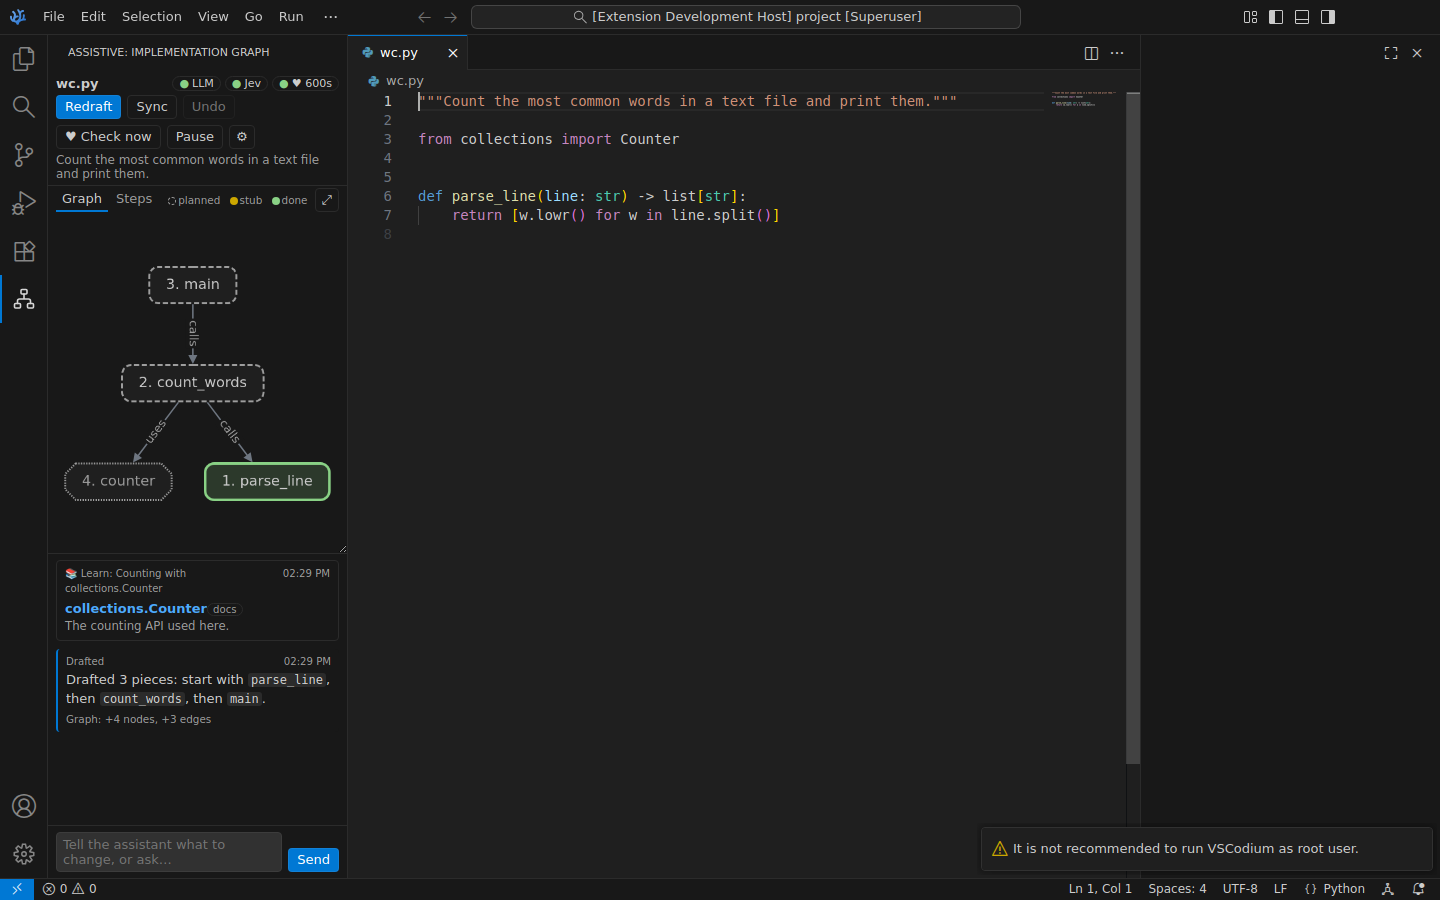
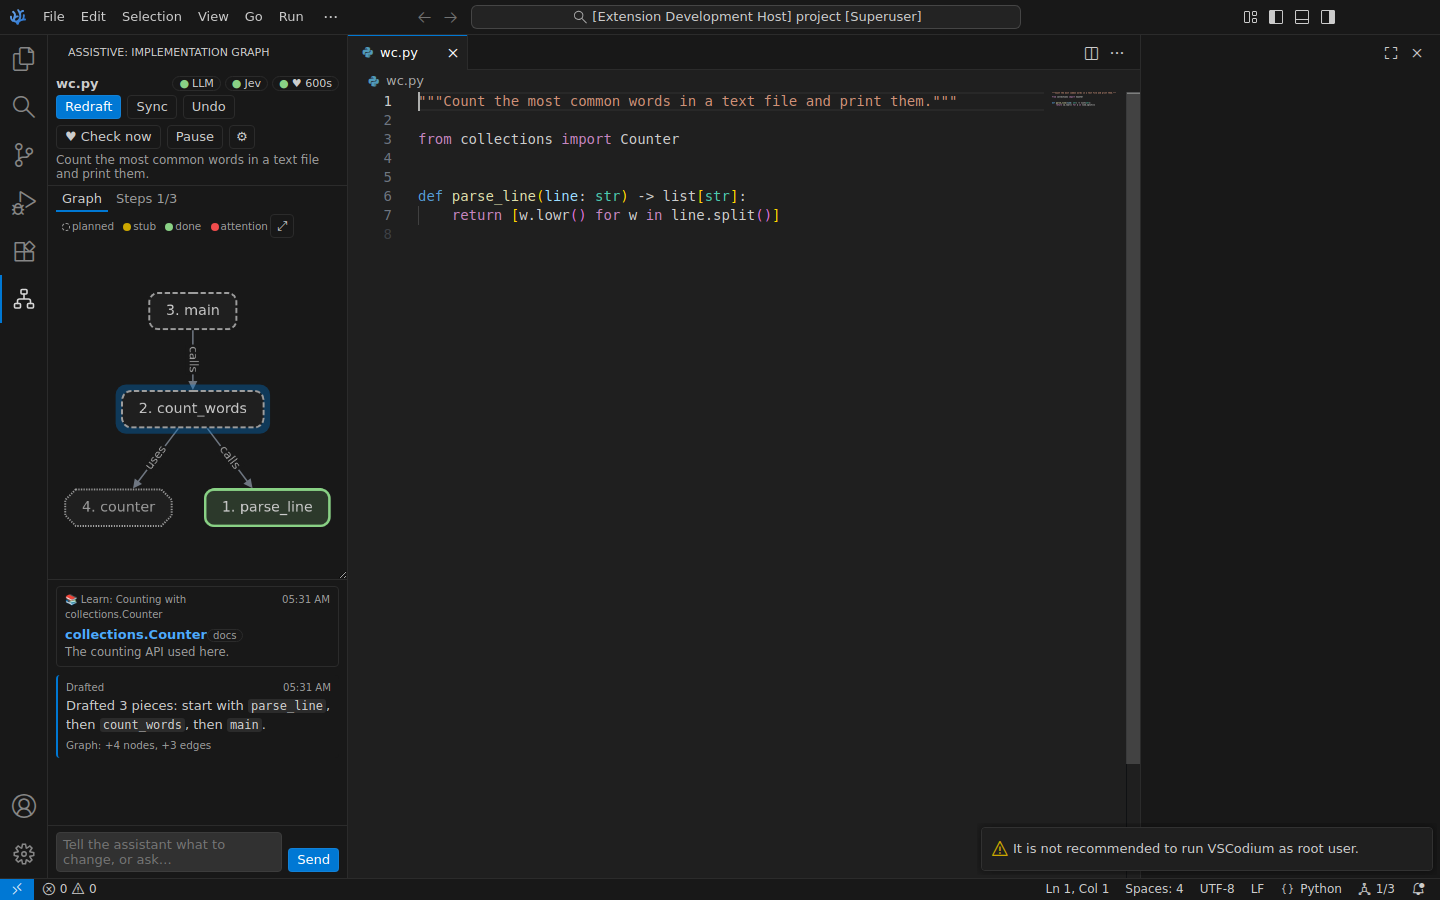
Fix panel layout found in screenshots; refresh the screenshots
- The node details box could be clipped by the graph section (its
  buttons hidden behind the feed); it now shrinks and scrolls, and its
  buttons sit under the title so they stay visible.
- Tab labels ("Steps 3/7") no longer wrap; in a narrow panel the legend
  moves to its own line instead of being cut.
- The graph is re-fitted when its area changes size, unless the
  programmer has zoomed or panned since the last layout.
- docs/images screenshots retaken (progress, next badge, Review button,
  status bar progress); docs updated.

Claude-Session: https://claude.ai/code/session_012J8wnmSVhSnkXVmHba446W

diff --git a/extension/src/panel/webview/panel.ts b/extension/src/panel/webview/panel.ts
@@ -255,10 +255,23 @@ function renderGraph(graph: FileGraph | undefined): void {
   }
 }
 
+/** The programmer zoomed or panned since the last layout: resizes then keep their view. */
+let userViewport = false;
+
+/** Fit the whole graph into the view (at most 1.3× zoom). */
+function fit(): void {
+  cy.fit(undefined, 12);
+  if (cy.zoom() > 1.3) {
+    cy.zoom(1.3);
+    cy.center();
+  }
+}
+
 function layout(): void {
   if (tab !== "graph" || !cy.nodes().length) {
     return;
   }
+  userViewport = false;
   cy.resize();
   cy.layout({
     name: "dagre",
@@ -267,13 +280,10 @@ function layout(): void {
     rankSep: 46,
     edgeSep: 8,
     padding: 12,
-    fit: true,
+    fit: false,
     animate: false,
   } as cytoscape.LayoutOptions).run();
-  if (cy.zoom() > 1.3) {
-    cy.zoom(1.3);
-    cy.center();
-  }
+  fit();
 }
 
 function renderSteps(graph: FileGraph | undefined): void {
@@ -346,7 +356,8 @@ function renderDetails(): void {
     button("Copy signature", "secondary", () => post({ type: "copy", text: n.signature ?? n.symbol ?? n.label }), "Copy to the clipboard"),
     button("Ask about this", "secondary", () => focusInput(`About \`${name}\`: `)),
   );
-  box.appendChild(actions);
+  // Actions right under the title, so they stay visible when the details scroll.
+  box.querySelector("h3")?.after(actions);
 }
 
 function hintRequest(name: string): string {
@@ -697,7 +708,13 @@ document.addEventListener("click", (ev) => {
 
 new ResizeObserver(() => {
   cy.resize();
+  // Keep the whole graph visible when the panel or the details box changes size.
+  if (!userViewport && tab === "graph" && cy.nodes().length) fit();
 }).observe($("graph-wrap"));
+$("cy").addEventListener("wheel", () => (userViewport = true), { passive: true });
+cy.on("tapstart", (ev) => {
+  if (ev.target === cy) userViewport = true; // a drag on the background pans
+});
 
 // Re-color when the VS Code theme changes.
 new MutationObserver(() => cy.style(graphStyle())).observe(document.body, { attributes: true, attributeFilter: ["class"] });

diff --git a/extension/src/panel/webview/panel.css b/extension/src/panel/webview/panel.css
@@ -175,11 +175,14 @@ button.link:hover {
 }
 .tabs {
   display: flex;
+  flex-wrap: wrap; /* in a narrow panel the legend moves to its own line instead of being cut */
   align-items: center;
   gap: 2px;
   padding: 2px 8px;
 }
 .tab {
+  white-space: nowrap;
+  flex-shrink: 0;
   background: transparent;
   color: var(--muted);
   border: none;
@@ -312,8 +315,10 @@ button.link:hover {
   border-top: 1px solid var(--border);
   padding: 6px 8px;
   max-height: 28vh;
+  min-height: 64px;
   overflow-y: auto;
-  flex: 0 0 auto;
+  /* Shrinks (and scrolls) with the graph when the panel is short, instead of being clipped. */
+  flex: 0 1 auto;
 }
 #details h3 {
   margin: 0 0 2px;
@@ -372,9 +377,13 @@ pre,
 }
 #details .actions {
   display: flex;
-  gap: 6px;
-  margin-top: 6px;
+  gap: 4px;
+  margin: 4px 0;
   flex-wrap: wrap;
+}
+#details .actions button {
+  padding: 1px 6px;
+  font-size: 0.92em;
 }
 
 /* ------------------------------------------------------------ feed */

diff --git a/docs/14-panel.md b/docs/14-panel.md
@@ -154,7 +154,9 @@ The build bundles the script with cytoscape, cytoscape-dagre, marked and DOMPuri
 - **Same key:** the script changes only the data and the classes of the elements. The layout does not run again, so the nodes do not jump when a status changes.
 - **New key:** the script removes all elements, adds the new elements, and runs the layout.
 
-**Layout.** `layout()` runs `dagre` with these options: top to bottom, node separation 24, rank separation 46, edge separation 8, padding 12, fit to the view, no animation. If the zoom is more than 1.3 after the fit, it sets the zoom to 1.3 and centers the graph. The layout runs only on the **Graph** tab.
+**Layout.** `layout()` runs `dagre` with these options: top to bottom, node separation 24, rank separation 46, edge separation 8, no animation. Then `fit()` fits the graph into the view with a padding of 12 px. If the zoom is more than 1.3, it sets the zoom to 1.3 and centers the graph. The layout runs only on the **Graph** tab.
+
+**Resize.** When the graph area changes size (the panel, or the details box), the script fits the graph again. It does not do this after the programmer zoomed with the mouse wheel or panned the background, until the next layout.
 
 **Cytoscape options.** Minimum zoom 0.3, maximum zoom 2.5, wheel sensitivity 0.25, no box selection.
 
@@ -170,7 +172,7 @@ The build bundles the script with cytoscape, cytoscape-dagre, marked and DOMPuri
 
 - `renderSteps(graph)` lists the nodes in typing order. Each item shows the label, the status and the signature. The next node (from `progress`) has the class `next` and a **next** badge. A click selects. A double-click sends `goto`.
 - `render(state)` sets the label of the Steps tab to **Steps done/total**, with the next node in the tooltip.
-- `renderDetails()` shows the selected node (refer to [User guide](04-user-guide.md#413-node-details)). It shows **Review** for a node whose code is done or flagged, and **Hint** for the other nodes. Both buttons send a `send` message with a fixed request (`hintRequest`, `reviewRequest`). An edge from the node shows as "calls **x**". An edge to the node shows as "**y** calls it".
+- `renderDetails()` shows the selected node (refer to [User guide](04-user-guide.md#413-node-details)). The buttons are directly under the title, so they stay visible when the details box scrolls. It shows **Review** for a node whose code is done or flagged, and **Hint** for the other nodes. Both buttons send a `send` message with a fixed request (`hintRequest`, `reviewRequest`). An edge from the node shows as "calls **x**". An edge to the node shows as "**y** calls it".
 - `renderHeader(state)` draws the file name and the three pills. It sets the button states:
 
   | Button | Not available if |
@@ -223,6 +225,8 @@ The build bundles the script with cytoscape, cytoscape-dagre, marked and DOMPuri
 
 - **Tokens.** `:root` defines `--planned`, `--stubbed`, `--done`, `--attention`, `--accent`, `--muted`, `--border`, `--card` and `--hover` from the VS Code variables. Thus the panel follows the light, dark and high-contrast themes.
 - **Layout.** The body is a vertical flex box with the height of the view. The graph section can shrink (`flex: 0 1 auto; min-height: 0`), so the input box always stays visible. The graph area starts at 42% of the view height, has a minimum of 140 px, and the programmer can resize it vertically. The feed fills the rest of the height and scrolls.
+- **Details box.** The details box has a maximum height of 28% of the view. It can shrink to 64 px and then scrolls, so the graph section never cuts it.
+- **Tabs.** The tab labels do not wrap. In a narrow panel, the legend moves to its own line.
 - **`[hidden]`.** The rule `[hidden] { display: none !important; }` makes sure that a hidden element stays hidden, also if a different rule sets `display`.
 
 ## 14.7 Security

diff --git a/docs/04-user-guide.md b/docs/04-user-guide.md
@@ -70,7 +70,7 @@ The legend shows the colors of the statuses. The **⤢** button fits the graph i
 
 ### 4.1.3 Node details
 
-When you select a node, the details box shows:
+When you select a node, the details box shows the buttons under the title, and then:
 
 - the label, the kind, the status and the line number;
 - the signature;
